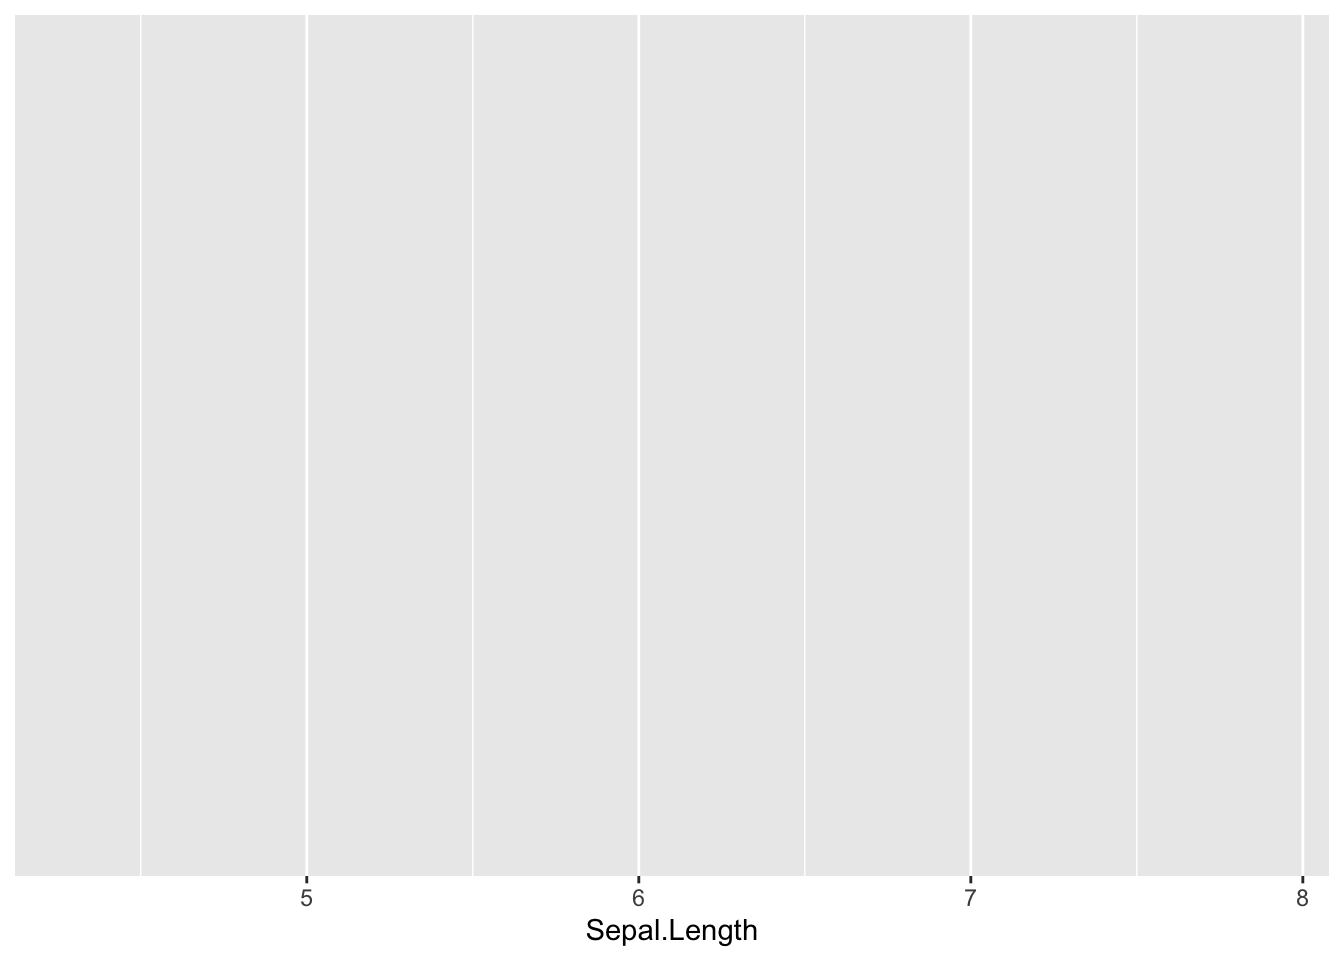
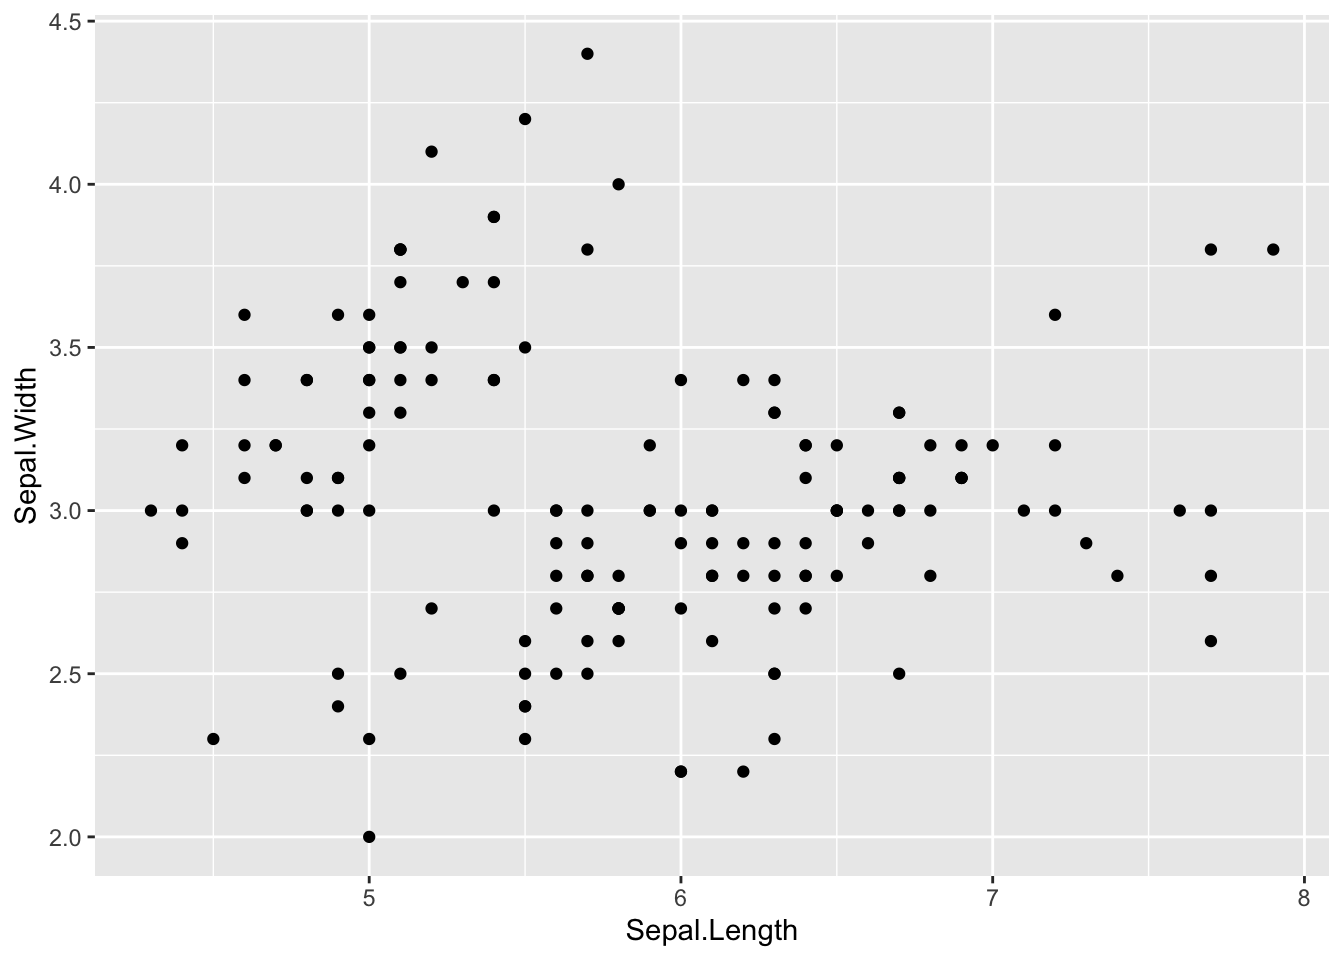
newone

diff --git a/docs/results.html b/docs/results.html
@@ -219,7 +219,8 @@ pre > code.sourceCode > span > a:first-child::before { text-decoration: underlin
 <details class="code-fold">
 <summary>Code</summary>
 <div class="sourceCode cell-code" id="cb1"><pre class="sourceCode r code-with-copy"><code class="sourceCode r"><span id="cb1-1"><a href="#cb1-1" aria-hidden="true" tabindex="-1"></a><span class="fu">library</span>(ggplot2)</span>
-<span id="cb1-2"><a href="#cb1-2" aria-hidden="true" tabindex="-1"></a><span class="fu">ggplot</span>(iris, <span class="fu">aes</span>(Sepal.Length))</span></code><button title="Copy to Clipboard" class="code-copy-button"><i class="bi"></i></button></pre></div>
+<span id="cb1-2"><a href="#cb1-2" aria-hidden="true" tabindex="-1"></a><span class="fu">ggplot</span>(iris, <span class="fu">aes</span>(Sepal.Length, Sepal.Width))<span class="sc">+</span></span>
+<span id="cb1-3"><a href="#cb1-3" aria-hidden="true" tabindex="-1"></a>  <span class="fu">geom_point</span>()</span></code><button title="Copy to Clipboard" class="code-copy-button"><i class="bi"></i></button></pre></div>
 </details>
 <div class="cell-output-display">
 <div>
